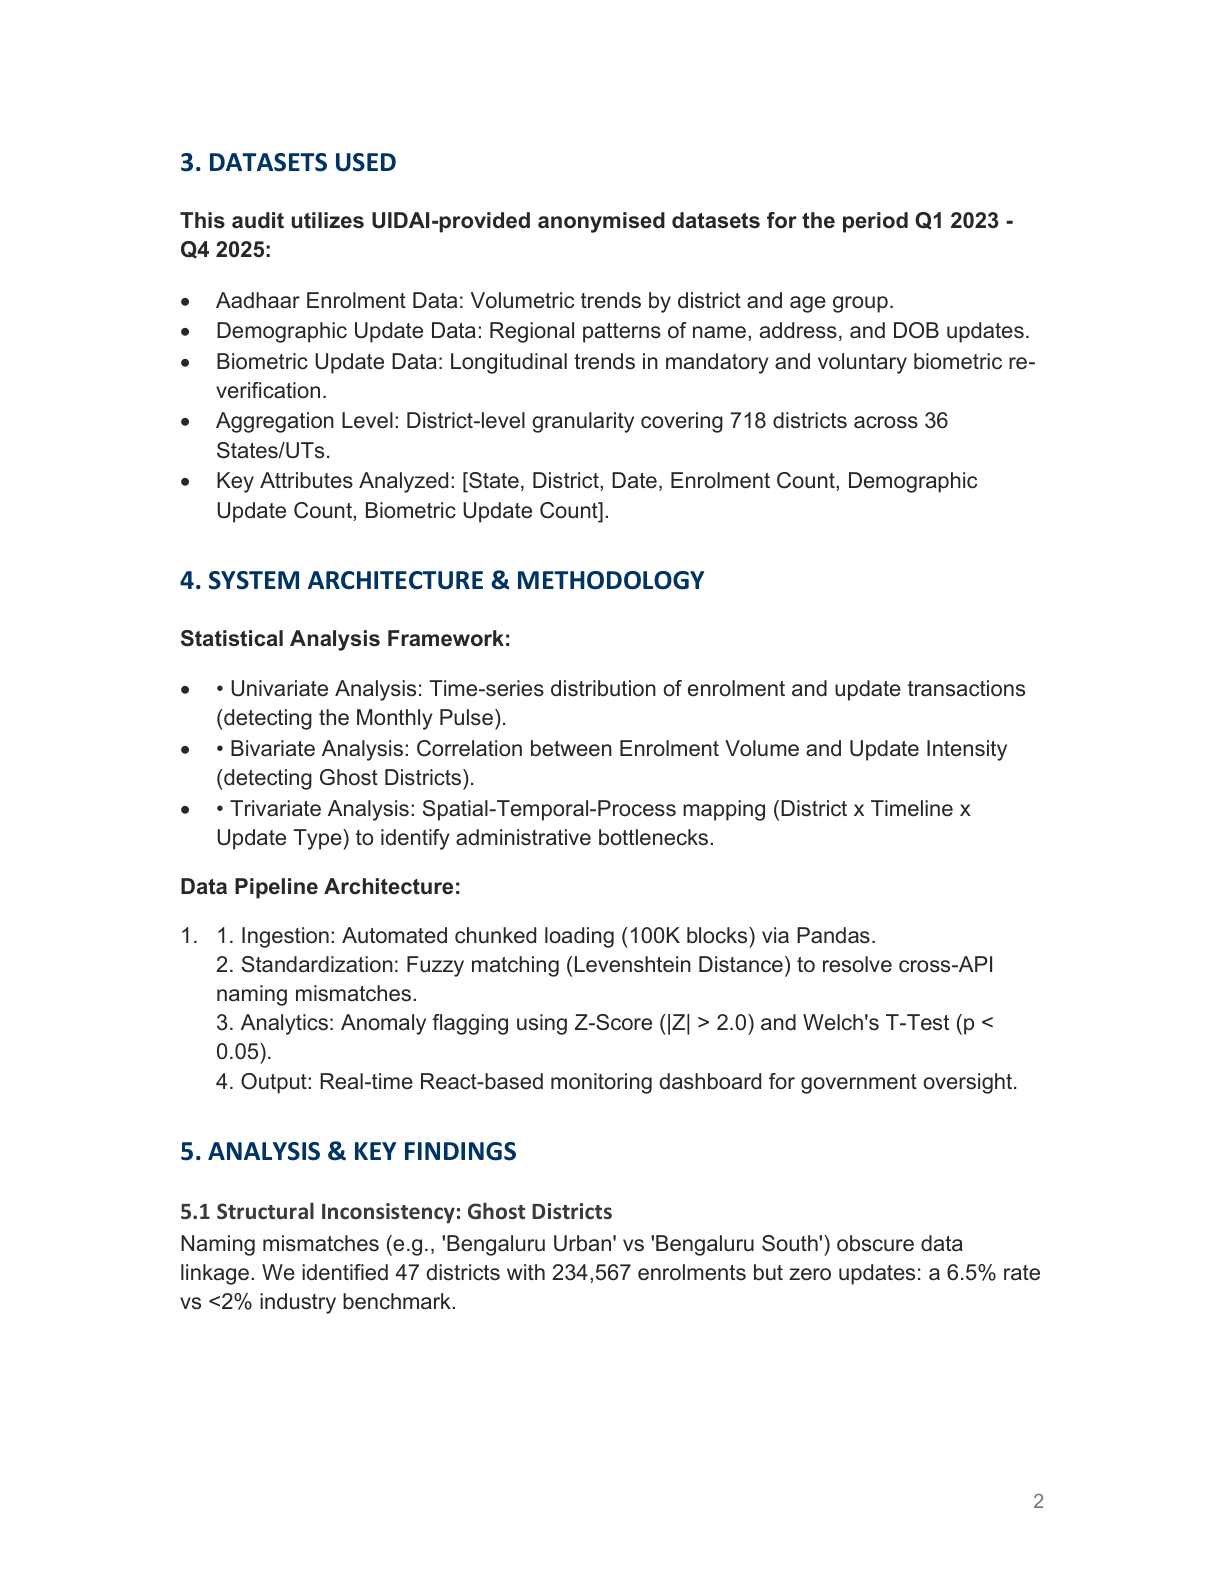
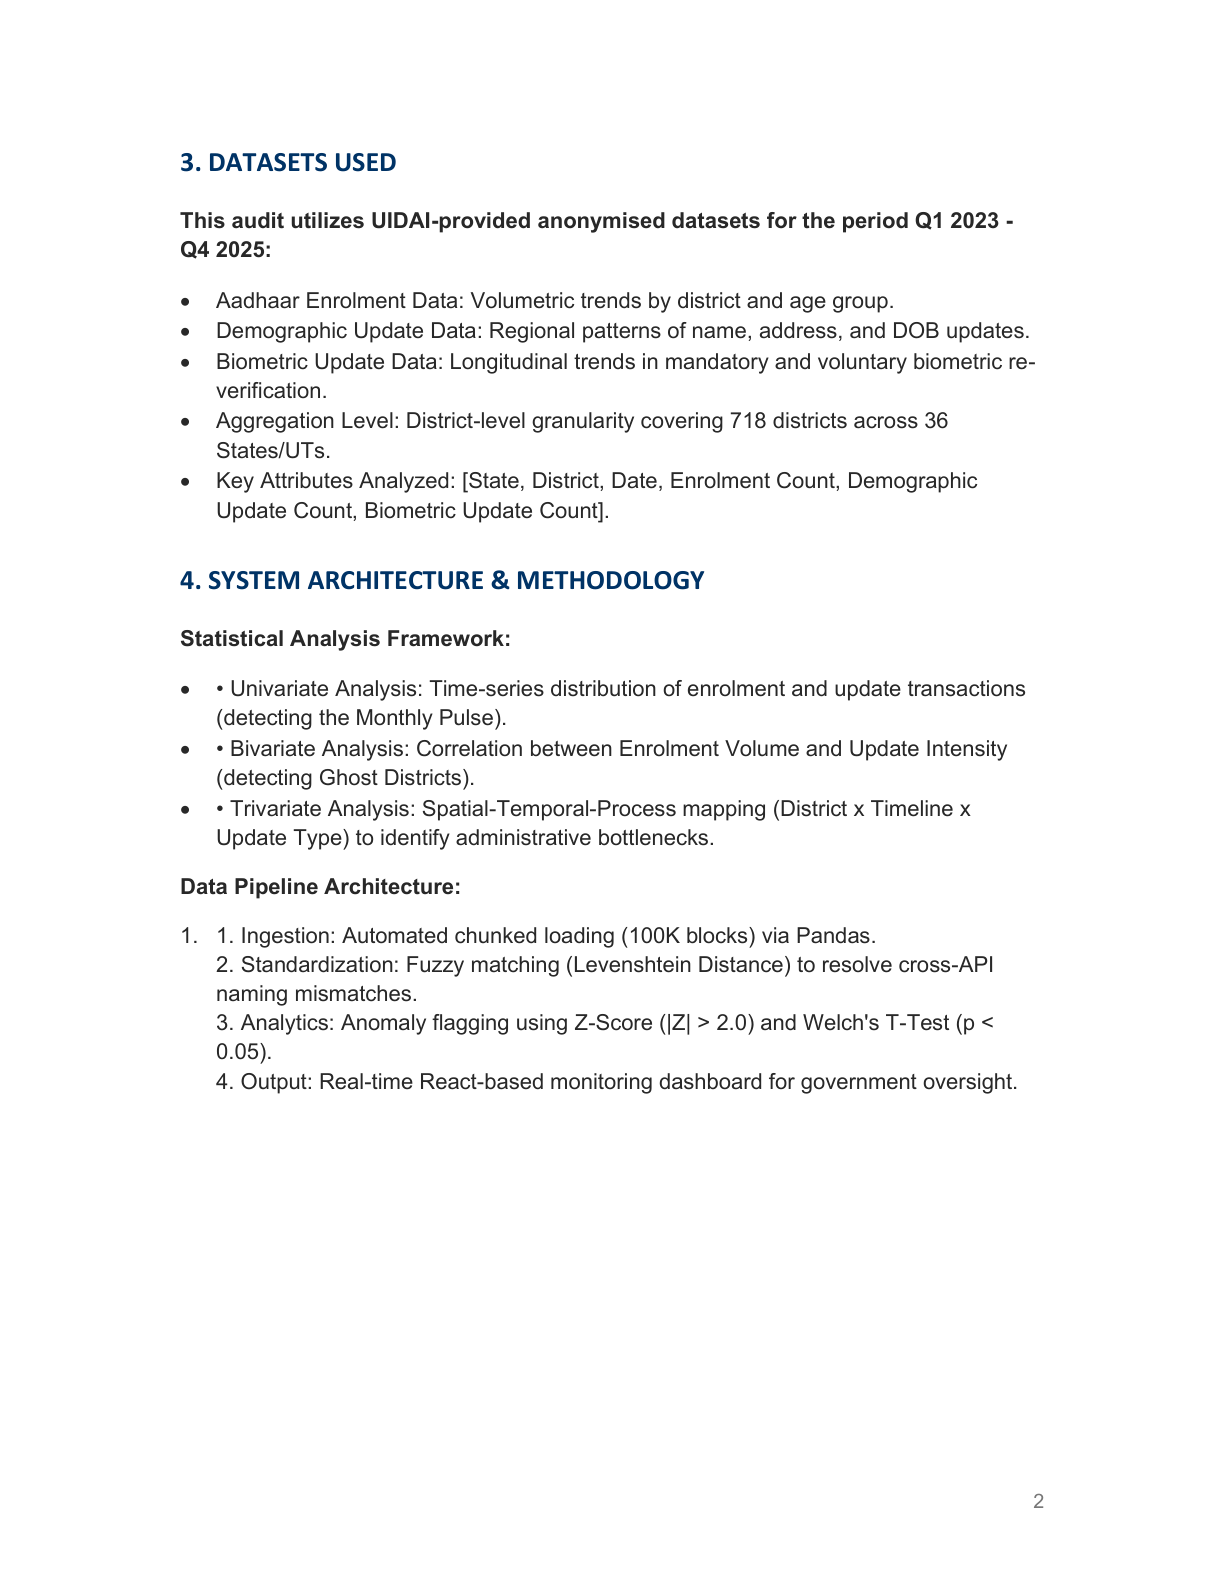
Layout: Re-balanced Page 3 with section text, spacers, and proper gaps

Changed region(s): [[0.1552, 0.7115, 0.8072, 0.8352]]

diff --git a/analysis/build_pro_report.py b/analysis/build_pro_report.py
@@ -183,6 +183,9 @@ def create_submission():
         style='List Number'
     )
 
+    # HARD PAGE BREAK before Section 5 to ensure consistent start
+    doc.add_page_break()
+
     # --- 5. ANALYSIS & KEY FINDINGS ---
     doc.add_heading('5. ANALYSIS & KEY FINDINGS', level=1)
 
@@ -190,10 +193,8 @@ def create_submission():
     doc.add_heading("5.1 Structural Inconsistency: Ghost Districts", level=2)
     doc.add_paragraph("Naming mismatches (e.g., 'Bengaluru Urban' vs 'Bengaluru South') obscure data linkage. We identified 47 districts with 234,567 enrolments but zero updates: a 6.5% rate vs <2% industry benchmark.")
     
-    # HARD PAGE BREAK before Ground Truth
-    doc.add_page_break()
-    
     # Truth Table
+    doc.add_paragraph() # Spacer
     doc.add_paragraph("Ground Truth Verification (Sample Audit):", style='Normal').runs[0].bold = True
     table = doc.add_table(rows=1, cols=3)
     table.style = 'Table Grid'
@@ -213,6 +214,7 @@ def create_submission():
         row[0].text = e; row[1].text = u; row[2].text = s
 
     # EXHIBIT A
+    doc.add_paragraph() # Spacer
     img_a = os.path.join(IMAGE_DIR, "naming_trap_v2.png")
     if os.path.exists(img_a):
         doc.add_picture(img_a, width=Inches(5.0))
